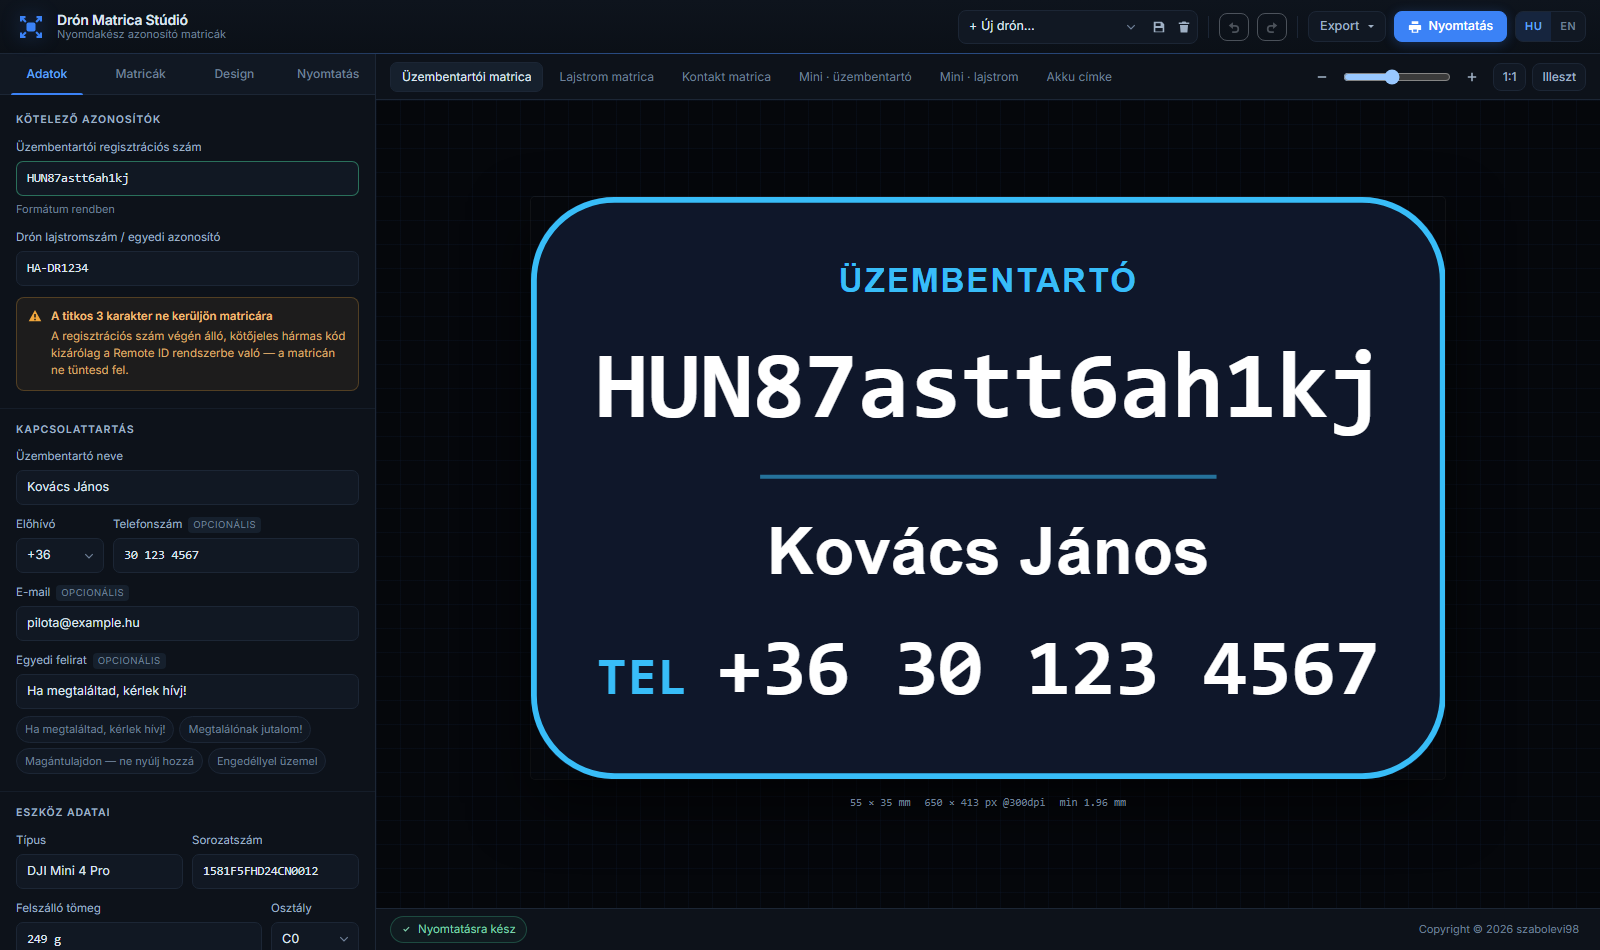
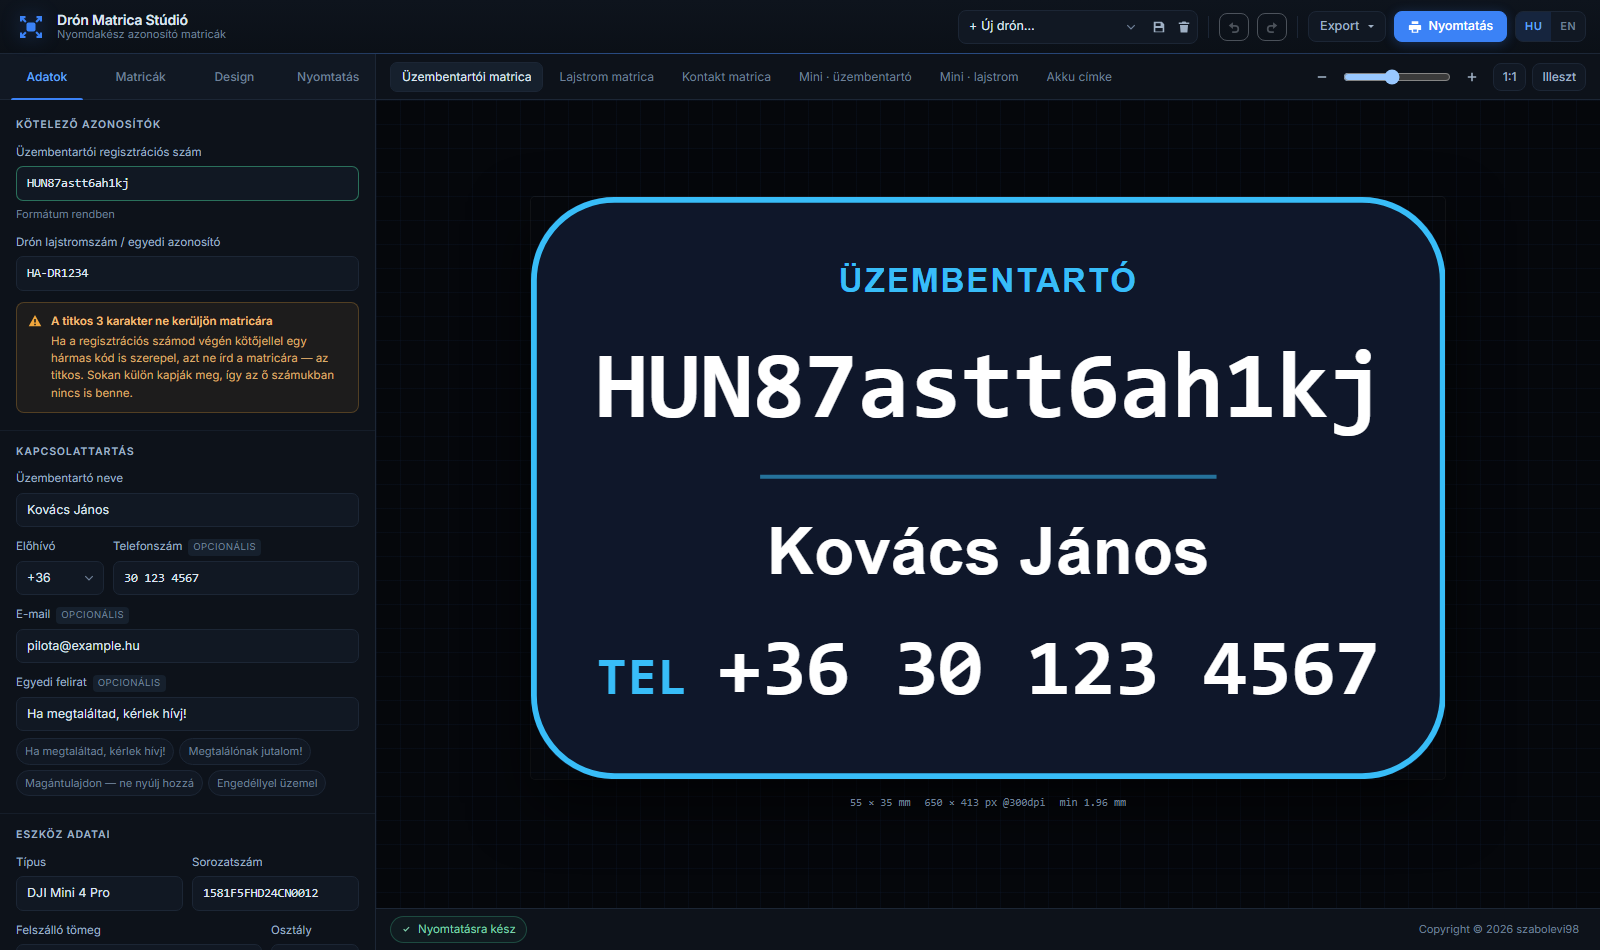
A titkos kód figyelmeztetés ne hivatkozzon a Remote ID-ra
A Remote ID említése nem feltétlenül pontos, és nem is szükséges a lényeghez.
A szöveg mostantól csak annyit mond, hogy a kötőjeles hármas kód titkos, és
megemlíti, hogy sokan külön kapják meg, tehát az ő számukban nincs is benne.

diff --git a/js/i18n.js b/js/i18n.js
@@ -44,7 +44,7 @@ const DICT = {
     'f.batDate': 'Üzembe helyezés dátuma',
 
     'notice.secret.t': 'A titkos 3 karakter ne kerüljön matricára',
-    'notice.secret.b': 'A regisztrációs szám végén álló, kötőjeles hármas kód kizárólag a Remote ID rendszerbe való — a matricán ne tüntesd fel.',
+    'notice.secret.b': 'Ha a regisztrációs számod végén kötőjellel egy hármas kód is szerepel, azt ne írd a matricára — az titkos. Sokan külön kapják meg, így az ő számukban nincs is benne.',
 
     'f.operatorId.hint': 'A hatóságtól kapott azonosító — 3 betűs országkód és utána 12 karakter.',
     'v.empty': 'Add meg az üzembentartói azonosítót',
@@ -246,7 +246,7 @@ const DICT = {
     'f.batDate': 'In service since',
 
     'notice.secret.t': 'Never put the 3-character secret on a label',
-    'notice.secret.b': 'The hyphenated three-character suffix of your registration number belongs in the Remote ID system only — keep it off the label.',
+    'notice.secret.b': 'If your registration number ends with a hyphen and three characters, keep that off the label — it is a secret code. Many people receive it separately, so their number does not contain it at all.',
 
     'f.operatorId.hint': 'The identifier issued by the authority — a 3-letter country code followed by 12 characters.',
     'v.empty': 'Enter your operator registration number',

diff --git a/index.html b/index.html
@@ -105,7 +105,7 @@
             <svg viewBox="0 0 16 16"><path d="M8 1.2 15.2 14H.8L8 1.2zm-.9 4.4v4.2h1.8V5.6H7.1zm0 5.4v1.8h1.8v-1.8H7.1z"/></svg>
             <div>
               <strong data-i18n="notice.secret.t">A titkos 3 karakter ne kerüljön matricára</strong>
-              <p data-i18n="notice.secret.b">A regisztrációs szám végén álló, kötőjeles hármas kód kizárólag a Remote ID rendszerbe való — a matricán ne tüntesd fel.</p>
+              <p data-i18n="notice.secret.b">Ha a regisztrációs számod végén kötőjellel egy hármas kód is szerepel, azt ne írd a matricára — az titkos. Sokan külön kapják meg, így az ő számukban nincs is benne.</p>
             </div>
           </div>
         </div>

diff --git a/README.md b/README.md
@@ -29,7 +29,7 @@ Minden típus mérete, alakja, tartalma és sorrendje külön állítható, és 
 - **Builder panel** — minden tartalmi elem külön ki/be kapcsolható és sorrendezhető
 - **Automatikus tipográfia** — a szöveg soha nem lóg ki, a betűméret magától igazodik a matricához
 - **Kontraszt-ellenőrző** — WCAG-alapú mérés, figyelmeztet, ha a jelölés nehezen olvashatóvá válik
-- **Remote ID figyelmeztetés** — jelzi, hogy a regisztrációs szám kötőjeles hármas végződése csak a Remote ID rendszerbe való, nem a matricára
+- **Titkos kód figyelmeztetés** — jelzi, hogy a regisztrációs szám végén álló, kötőjeles hármas kód titkos, és nem a matricára való
 - **QR kód** — hívható telefonszám, vCard névjegy, link, azonosítók vagy egyedi szöveg
 - **Logó és háttérkép** — saját kép beágyazható, opacitás-szabályozással
 - **Nyomtatási kosár** — több különböző matrica egy A4-es ívre, vágójelekkel és térközzel
